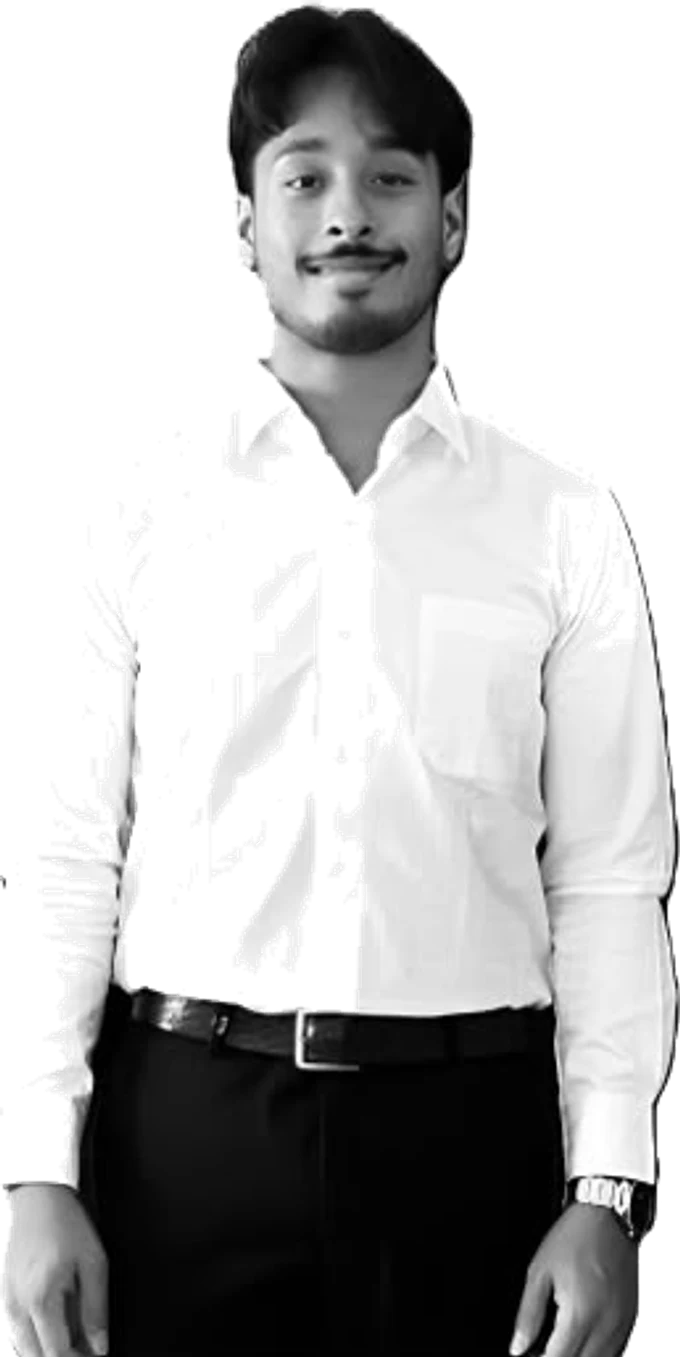
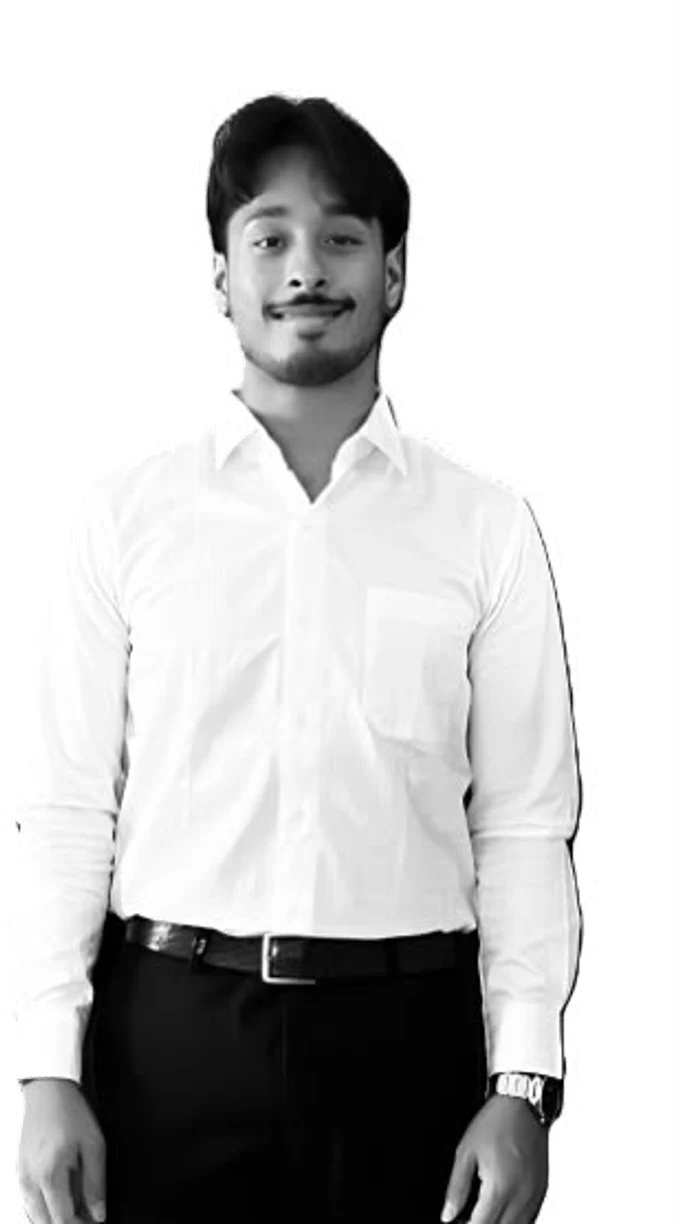
About portrait: strict cut-out threshold and white frame so the shirt stays whole

diff --git a/src/data/about.ts b/src/data/about.ts
@@ -14,7 +14,7 @@ export type Activity = {
 };
 
 export const about = {
-  portrait: { src: '/about/rohan.webp', alt: 'Rohan Paul in a white shirt, black and white, framed on grid paper', width: 680, height: 1357 },
+  portrait: { src: '/about/rohan.webp', alt: 'Rohan Paul in a white shirt, black and white, framed on grid paper', width: 680, height: 1224 },
   story: [
     {
       when: '2021',
